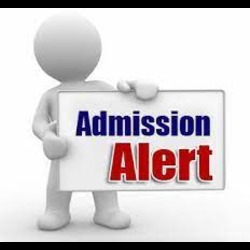
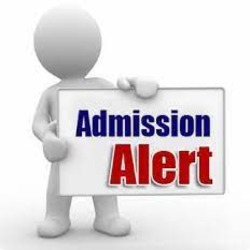
Code Cleaning

diff --git a/components/OneToOneCons.js b/components/OneToOneCons.js
@@ -45,7 +45,7 @@ const oneToOneCons = () => {
             >
               <div className="servinice-in-content-right-in">
                 <div className="servinice-in-content-right-in-in">
-                  <img src="assets/images/onetooneconseling (1).jpg" alt=""></img>
+                  <img src="assets/images/onetooneconseling.jpg" alt=""></img>
                 </div>
               </div>
             </div>

diff --git a/components/AdmissionAlert.js b/components/AdmissionAlert.js
@@ -19,7 +19,7 @@ const AdmissionAlert = () => {
           >
             <div className="servinice-in-content-right-in">
               <div className="servinice-in-content-right-in-in">
-                <img src="assets/images/admissionalert (1).jpg" alt=""></img>
+                <img src="assets/images/admissionalert.jpg" alt=""></img>
               </div>
             </div>
           </div>

diff --git a/components/InstituteLevelManagement.js b/components/InstituteLevelManagement.js
@@ -1,5 +1,4 @@
 import react from "react";
-import pImg from "../public/assets/images/p-img.jpg";
 import arrow from "../public/assets/images/arrow-service-icon.png";
 const InstituteLevelManagement = () => {
   return (

diff --git a/components/Admissionguidance.js b/components/Admissionguidance.js
@@ -1,5 +1,4 @@
 import react from "react";
-import pImg from "../public/assets/images/p-img.jpg";
 const Admissionguidance = () => {
   return (
     <>
